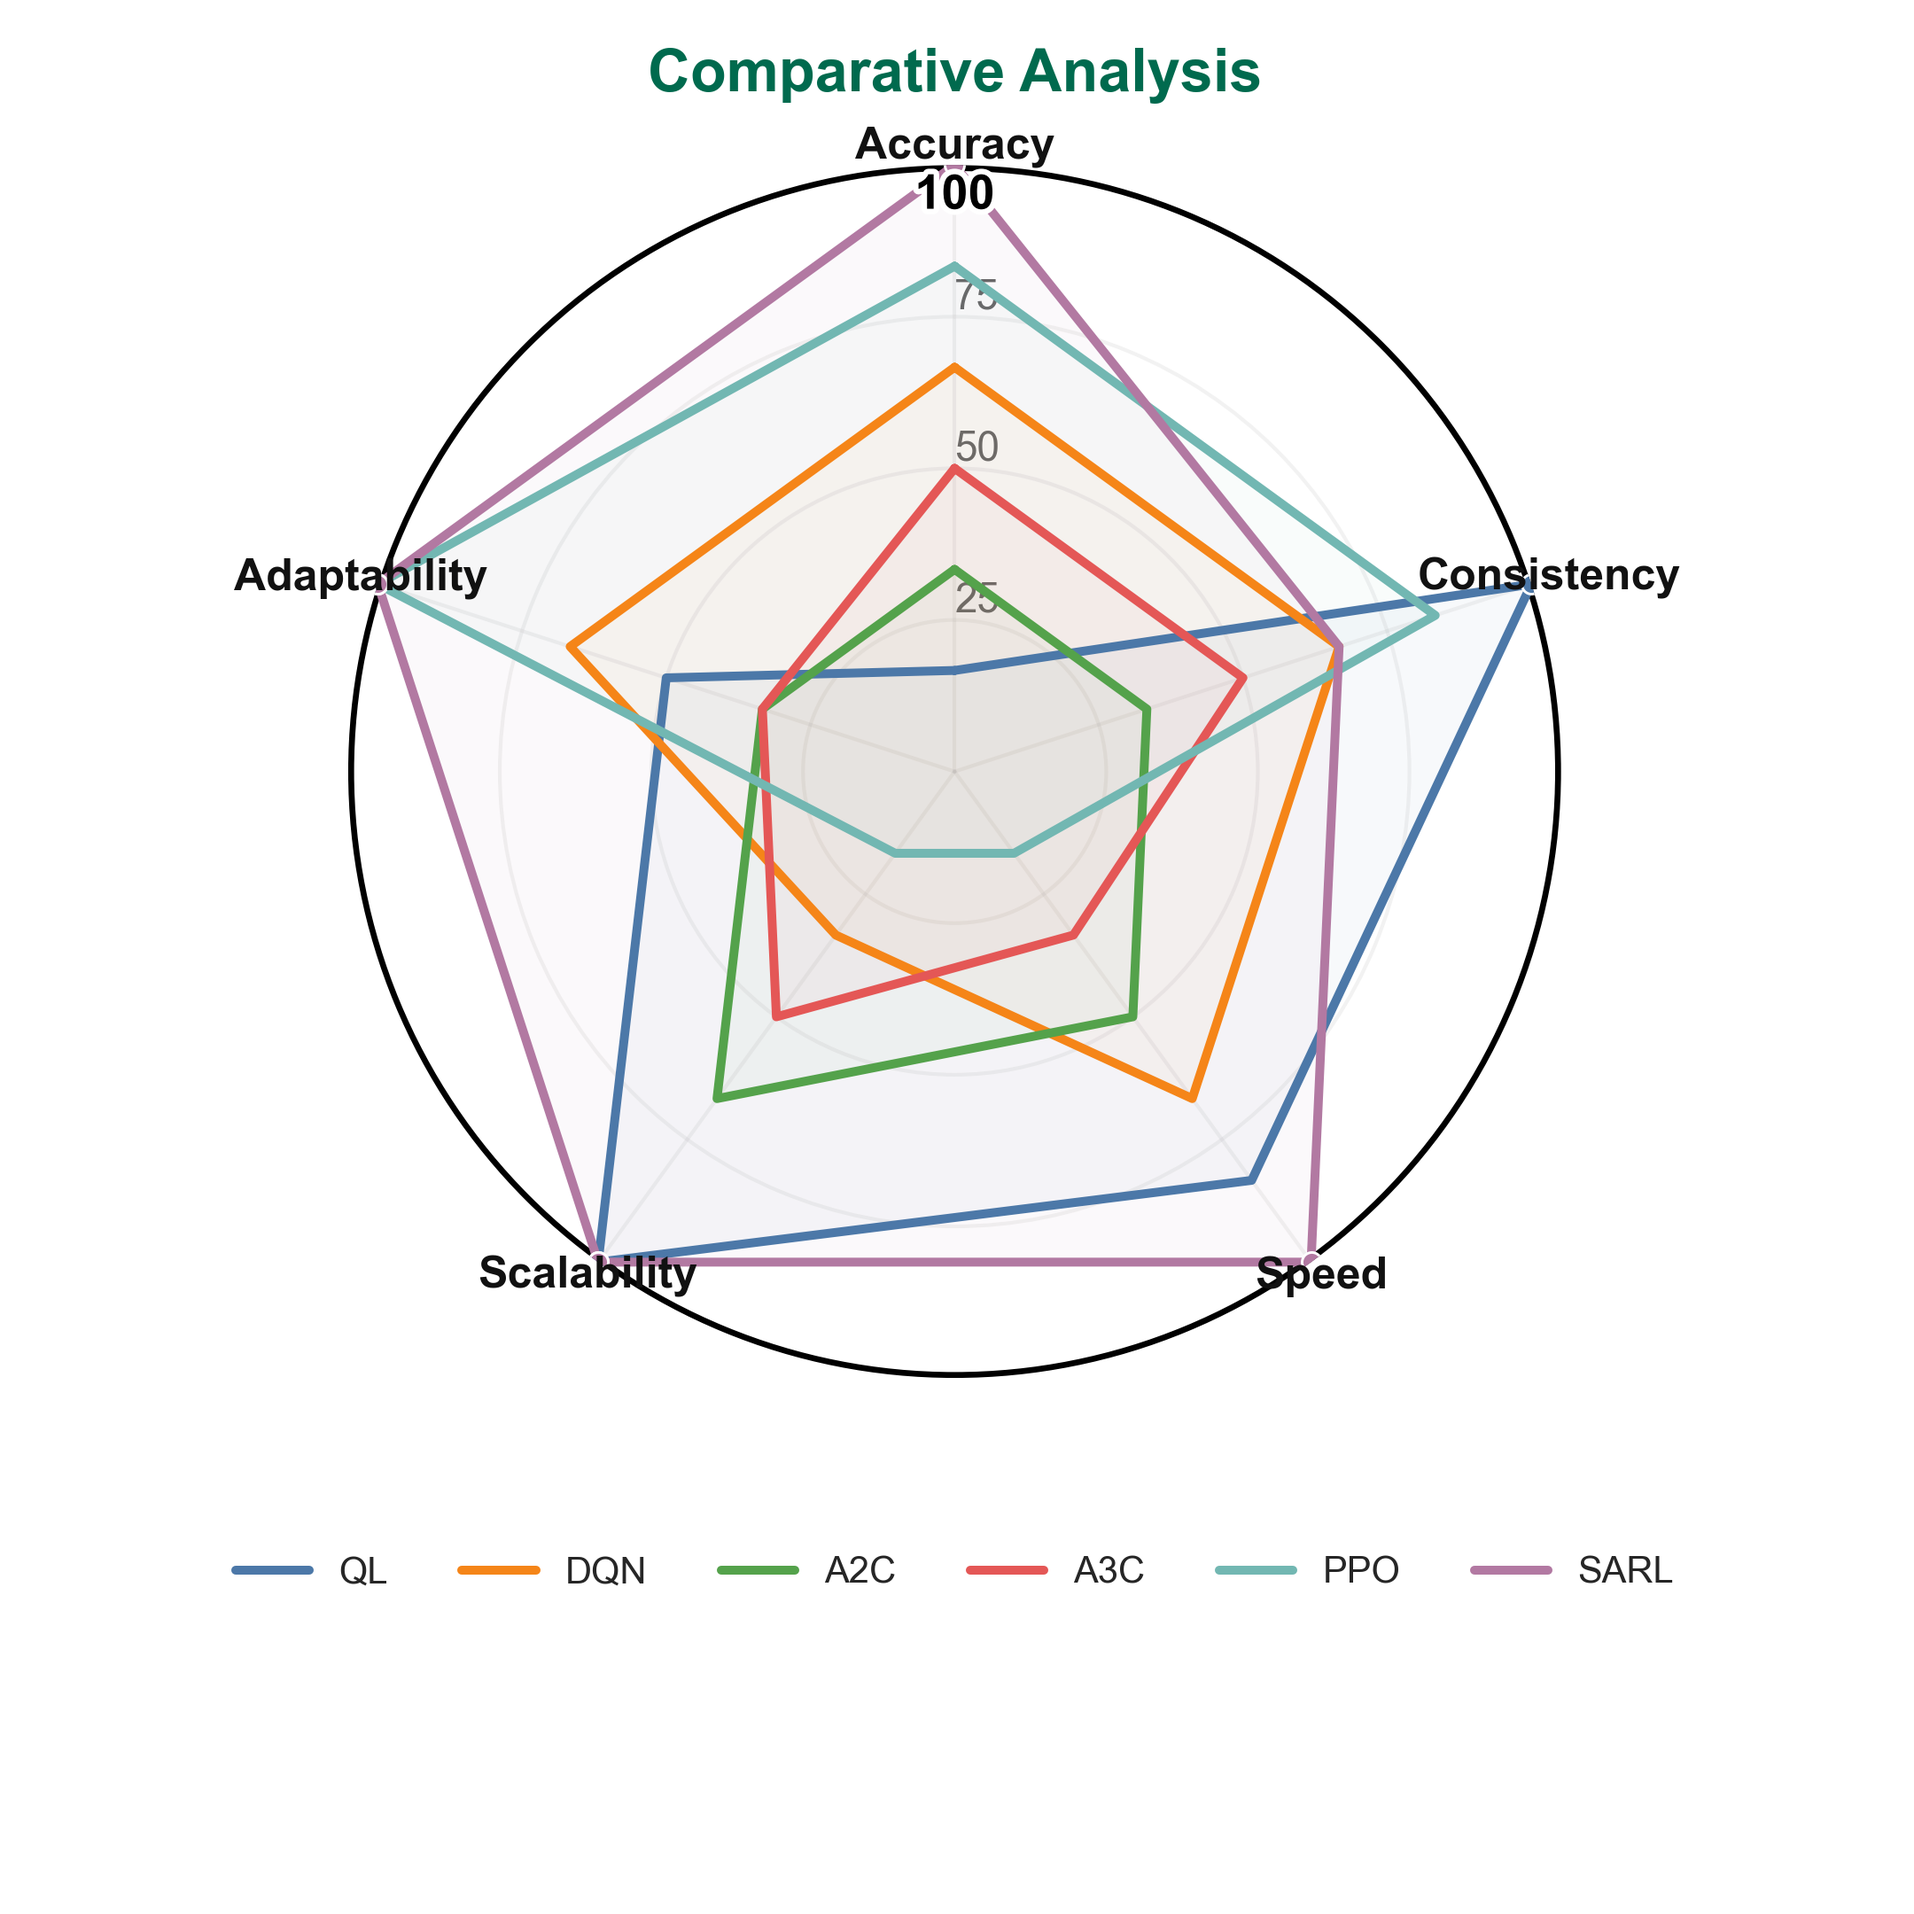
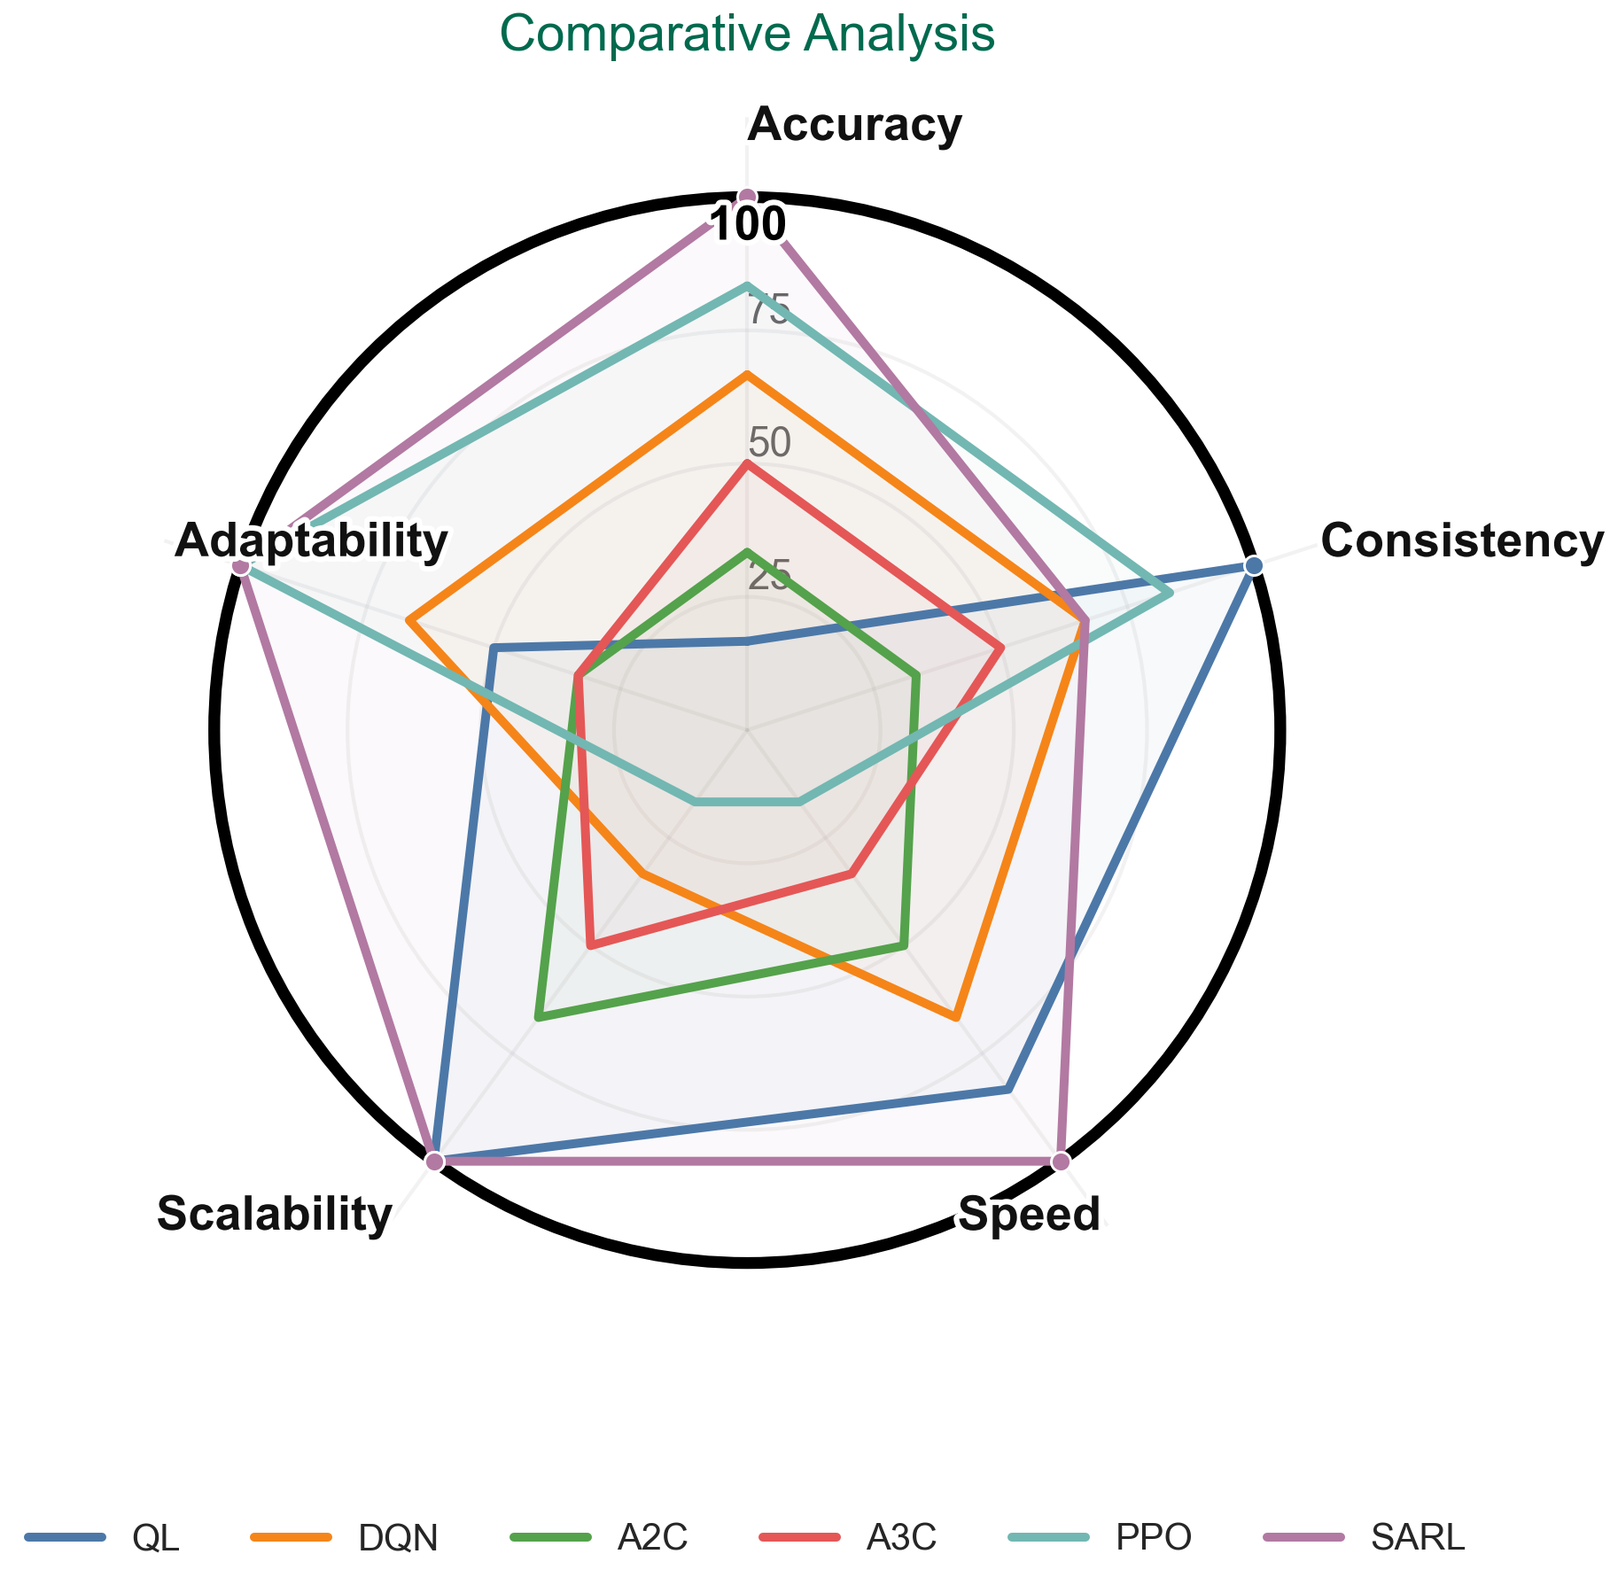
Added changes

diff --git a/curriculum_sequencing_rl/plot_poster.py b/curriculum_sequencing_rl/plot_poster.py
@@ -475,7 +475,7 @@ def generate_all_plots(df: pd.DataFrame, outdir: Path) -> List[Path]:
     return out_paths
 
 
-def plot_radar_axes(df_all: pd.DataFrame, models: List[str], outdir: Path, radar_mode: str = "rank", radar_style: str = "highlight", radar_baseline: str | None = None) -> Path | None:
+def plot_radar_axes(df_all: pd.DataFrame, models: List[str], outdir: Path, radar_mode: str = "rank", radar_style: str = "highlight", radar_baseline: str | None = None, radar_title: str = "Comparative Analysis") -> Path | None:
     """Plot radar chart for evaluation axes from aggregated rows.
 
     Modes:
@@ -721,14 +721,6 @@ def plot_radar_axes(df_all: pd.DataFrame, models: List[str], outdir: Path, radar
 
         sufx = "Rank-normalized (Best=100)" if mode_lower == "rank" else "0–100"
         fig.suptitle(f"Evaluation Axes — {sufx} • Small-multiples", color=THEME_HEX, y=0.98)
-        fig.tight_layout(rect=[0, 0, 1, 0.96])
-        out_path = outdir / "poster_radar_axes.png"
-        fig.savefig(out_path, dpi=300)
-        plt.close(fig)
-        return out_path
-
-    # Special style: baseline delta (center at 0 mapped to 50 ring)
-    if style_lower == "baseline_delta":
         # Determine baseline label/index (case-insensitive against model_labels)
         baseline = (radar_baseline or (model_labels[0] if model_labels else None))
         if baseline is None:
@@ -784,7 +776,7 @@ def plot_radar_axes(df_all: pd.DataFrame, models: List[str], outdir: Path, radar
         ax.legend(loc="upper center", bbox_to_anchor=(0.5, -0.12), ncol=min(len(model_labels), 6), frameon=False)
         fig.tight_layout(rect=[0, 0.12, 1, 1])
         out_path = outdir / "poster_radar_axes.png"
-        fig.savefig(out_path, dpi=300)
+        fig.savefig(out_path, dpi=300, bbox_inches="tight", pad_inches=0.05)
         plt.close(fig)
         return out_path
 
@@ -808,7 +800,7 @@ def plot_radar_axes(df_all: pd.DataFrame, models: List[str], outdir: Path, radar
     # Radial limits and grid styling by style
     if str(radar_style).lower() == "highlight":
         ax.set_rlabel_position(0)
-        ax.set_ylim(0, 100)
+        ax.set_ylim(0, 115)
         # Include 100 so the outer ring is a true circular gridline
         ax.set_yticks([25, 50, 75, 100])
         # Hide the '100' tick label (we'll add our own label at the top)
@@ -826,7 +818,7 @@ def plot_radar_axes(df_all: pd.DataFrame, models: List[str], outdir: Path, radar
                 pass
     else:
         ax.set_rlabel_position(0)
-        ax.set_ylim(0, 100)
+        ax.set_ylim(0, 115)
         ax.set_yticks([20, 40, 60, 80, 100])
         ax.set_yticklabels(["20", "40", "60", "80", ""], color="#555555")
         # Force ticks to only these positions (including 100)
@@ -864,6 +856,42 @@ def plot_radar_axes(df_all: pd.DataFrame, models: List[str], outdir: Path, radar
             ])
         except Exception:
             pass
+    except Exception:
+        pass
+
+    # Draw bold axis labels outside the 100 ring for clarity
+    try:
+        r_label = 113.0
+        for ang, lab in zip(angles[:-1], labels):
+            # Angle-aware alignment for readability
+            c = np.cos(ang)
+            # Horizontal alignment
+            if c > 0.1:
+                ha = "left"
+            elif c < -0.1:
+                ha = "right"
+            else:
+                ha = "center"
+            va = "center"
+            txt = ax.text(
+                ang,
+                r_label,
+                lab,
+                ha=ha,
+                va=va,
+                fontsize=13,
+                fontweight="bold",
+                color="#111111",
+                clip_on=False,
+                zorder=12,
+            )
+            try:
+                txt.set_path_effects([
+                    path_effects.Stroke(linewidth=3.0, foreground="white"),
+                    path_effects.Normal(),
+                ])
+            except Exception:
+                pass
     except Exception:
         pass
 
@@ -918,29 +946,23 @@ def plot_radar_axes(df_all: pd.DataFrame, models: List[str], outdir: Path, radar
                 adapt_idx = labels.index("Adaptability")
                 r_scal = min(100.0, max(0.0, vals_plot[scal_idx] + 4.0))
                 r_adap = min(100.0, max(0.0, vals_plot[adapt_idx] + 4.0))
-                ax.text(angles[scal_idx], r_scal, f"{scal_orig:.2f}", color=color, fontsize=8, ha="center", va="bottom")
-                ax.text(angles[adapt_idx], r_adap, f"{adapt_orig:.2f}", color=color, fontsize=8, ha="center", va="bottom")
             except Exception:
                 pass
+    # Apply title for highlight/classic styles (fig-level titles are handled in other modes)
+    try:
+        ax.set_title(str(radar_title), color=THEME_HEX, pad=18)
+    except Exception:
+        pass
 
-    # Axis labels outside the circle in bold (just outside the 100 ring)
-    r_label = 103.0
-    for j, lbl in enumerate(labels):
-        ang = angles[j]
-        ax.text(ang, r_label, lbl, ha="center", va="center", fontsize=12, fontweight="bold", color="#111111", clip_on=False, zorder=10)
-
-    # Title
-    ax.set_title("Comparative Analysis", color=THEME_HEX, pad=20, fontsize=16, fontweight="bold")
-
-    # Legend placement by style
-    if style_is_highlight:
+    # Legend placement (applies to both styles)
+    if len(model_labels) > 3:
         ax.legend(loc="upper center", bbox_to_anchor=(0.5, -0.12), ncol=min(len(model_labels), 6), frameon=False)
         fig.tight_layout(rect=[0, 0.12, 1, 1])
     else:
         ax.legend(loc="upper left", bbox_to_anchor=(1.05, 1.05), frameon=False)
         fig.tight_layout(rect=[0, 0, 0.85, 1])
     out_path = outdir / "poster_radar_axes.png"
-    fig.savefig(out_path, dpi=300)
+    fig.savefig(out_path, dpi=300, bbox_inches="tight", pad_inches=0.05)
     plt.close(fig)
     return out_path
 
@@ -965,6 +987,8 @@ def parse_args() -> argparse.Namespace:
                    help="Radar style: 'highlight', 'classic', 'small_multiples', or 'baseline_delta'")
     p.add_argument("--radar_baseline", type=str, default=None,
                    help="Baseline model (by name) for 'baseline_delta' style. Defaults to first in --models.")
+    p.add_argument("--radar_title", type=str, default="Comparative Analysis",
+                   help="Title to display above radar (highlight/classic styles)")
     return p.parse_args()
 
 
@@ -998,6 +1022,7 @@ def main() -> None:
         radar_mode=getattr(args, "radar_mode", "rank"),
         radar_style=getattr(args, "radar_style", "highlight"),
         radar_baseline=getattr(args, "radar_baseline", None),
+        radar_title=getattr(args, "radar_title", "Comparative Analysis"),
     )
 
     if radar_path is not None:
